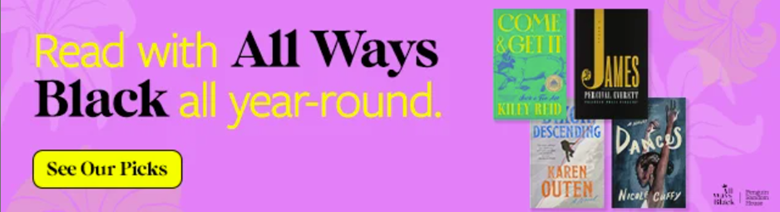
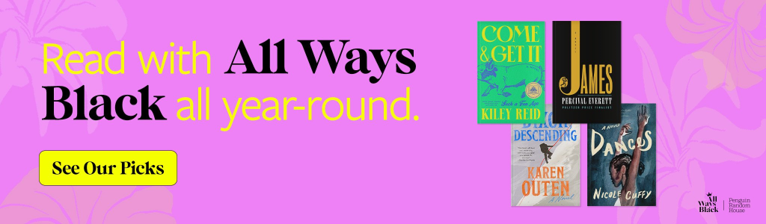
fix: change poster style, modify css

diff --git a/public/css/index.css b/public/css/index.css
@@ -1,13 +1,15 @@
 /* topnav*/
 .topnav {
     overflow: hidden;
-    margin-left: 40px
+    border-bottom: 1px solid black;
+    margin-bottom: 10px;
 }
 
 .topnav a {
     float: left;
+    margin-left: 40px;
     text-align: center;
-    padding: 14px 16px;
+    padding: 15px 0;
     text-decoration: none;
     font-size: 17px;
     color: #000;
@@ -18,29 +20,39 @@
     color: #FFCC00;
     font-weight: bolder;
 }
+.topnav a.active {
+    font-weight: bolder;
+    color: black;
+}
   
 /* poster */
 .header-image {
     overflow: hidden; 
     position: relative;
+    margin: 20px 5%;
+    background-color: #f0f0f0;
+    border-radius: 50px;
 }
 
 .slider {
     display: flex; 
     width: 300%;
+    margin: 0 auto;
 }
 
 .slider img {
     width: 100vw; 
     height: 100%;
+    padding: 20px 4%;
 }
 
 .recommended-wrapper {
     display: grid;
     grid-template-columns: repeat(3, 1fr);
     justify-items: center;
+    row-gap: 10px;
     column-gap: 10px;
-    padding: 10px 300px;
+    padding: 10px 400px;
     justify-content: center;
     margin-bottom: 0;
 }
@@ -59,18 +71,34 @@
     cursor: pointer;
 }
 
-/* @media screen and (max-width: 1200px) {
-    .header-image {
-        padding: 10px 20px;
+@media screen and (max-width: 1200px) {
+    .header-image{
+        margin: 0;
+        border-radius: 20px;
+    }
+    .slider img {
+        padding: 0;
+    }
+    .recommended-wrapper {
+        grid-template-columns: repeat(2,1fr);
+        padding: 0 200px;
     }
 }
 
 
 @media screen and (max-width: 600px) {
-    .header-image {
-        padding: 10px 20px;
+    .header-image{
+        margin: 0;
+        border-radius: 20px;
     }
-} */
+    .slider img {
+        padding: 0;
+    }
+    .recommended-wrapper {
+        grid-template-columns: repeat(2,1fr);
+        padding: 0 50px;
+    }
+}
 
 
 

diff --git a/public/css/product.css b/public/css/product.css
@@ -15,14 +15,12 @@
     flex-direction: column;
     align-items: center;
     justify-content: center;
-    width: 200px;
+    width: 150px;
 }
   
 .item-wrapper img {
     width: 100%;
-    height: 100%;
-    padding: 30px;
-    background-color: #f0f0f0;
+    height: 70%;
 }
 
 .item-wrapper .item-price {
@@ -30,7 +28,7 @@
     align-items: center; 
     height: 40px;
     margin-top: 10px;
-    width: 100%;
+    width: 200px;
     justify-content: center;
 }
   
@@ -38,17 +36,18 @@
     font-size: 16px;
     margin: 0;
     margin-right: 10px;
+    color: #174ea6;
 }
 .item-wrapper .title {
     margin-top: 10px;
     margin-bottom: 0;
-    width: 200px;
+    width: 150px;
     height: 40px;
     text-overflow: ellipsis;
     white-space: nowrap;
     overflow: hidden;
     font-weight: bold;
-    font-size: 16px;
+    font-size: 14px;
     text-decoration: underline;
     cursor: pointer;
 }
@@ -64,11 +63,11 @@
 .cart-btn {
   background-color: #fff;
   border: none;
-  border-radius: 10px;
+  border-radius: 15px;
   color: #333;
   cursor: pointer;
   font-size: 15px;
-  padding: 10px 20px;
+  padding: 10px 15px;
   box-shadow: rgba(0, 0, 0, .2) 0 3px 5px,rgba(0, 0, 0, .14) 0 6px 10px 0,rgba(0, 0, 0, .12) 0 1px 18px 0;
 }
 
@@ -163,8 +162,7 @@
 }
 
 @media screen and (max-width: 600px) {
-  .main-container,
-  .recommended-wrapper {
+  .main-container {
       grid-template-columns: 1fr;
       padding: 0;
       row-gap: 50px;

diff --git a/public/js/index.js b/public/js/index.js
@@ -1,8 +1,8 @@
 let cartItems = JSON.parse(localStorage.getItem("cartItems")) || [];
 
+/* poster slide */
 let currentPoster = 0;
 const slides = document.querySelectorAll(".slider img");
-
 function nextSlide() {
     currentPoster = (currentPoster + 1) % 3;
     for (let i = 0; i < 3; i++) {
@@ -10,16 +10,27 @@ function nextSlide() {
         slides[i].style.transform = `translateX(-${currentPoster * 100}%)`;
     }
 }
+setInterval(nextSlide, 2500);
 
-setInterval(nextSlide, 2000);
 
+//topnav active menu
+var path = window.location.pathname;
+var page = path.split("/").pop();
 
+$('.topnav a').each(function() {
+    var href = $(this).attr('href');
+    if (page === href) {
+        $(this).addClass('active');
+    }
+});
 
 
 
 $(".recommended-wrapper").on("click", ".title", function() {
     window.location.href = "product.html";
 });
+
+
 
 
 $(".main-container").on("click", ".title", function() {
